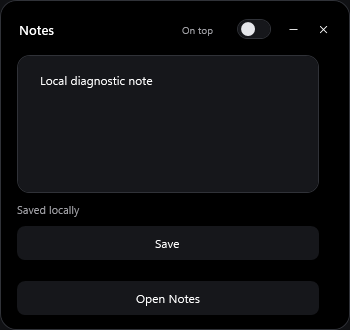
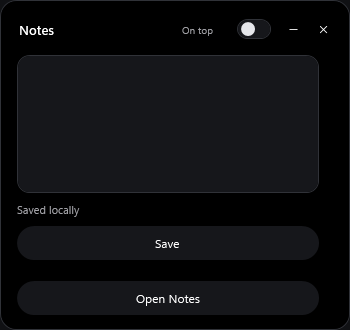
Apply height-aware pill buttons with a previewed shape preference

diff --git a/Theme.xaml b/Theme.xaml
@@ -4,11 +4,14 @@
   <SolidColorBrush x:Key="ControlFill" Color="#16171B"/><SolidColorBrush x:Key="ControlBorder" Color="#303238"/><SolidColorBrush x:Key="SelectionFill" Color="#34373E"/>
   <Style TargetType="MenuItem"><Setter Property="Foreground" Value="{DynamicResource ControlText}"/><Setter Property="Background" Value="Transparent"/><Setter Property="Padding" Value="10,8"/><Setter Property="Template"><Setter.Value><ControlTemplate TargetType="MenuItem"><Border x:Name="MenuFrame" Background="{TemplateBinding Background}" Padding="{TemplateBinding Padding}" CornerRadius="7"><Grid><Grid.ColumnDefinitions><ColumnDefinition Width="18"/><ColumnDefinition Width="*"/></Grid.ColumnDefinitions><Path x:Name="CheckMark" Data="M1,6 L5,10 13,2" Stroke="White" StrokeThickness="1.5" Width="12" Height="10" Stretch="Uniform" Visibility="Hidden"/><ContentPresenter Grid.Column="1" ContentSource="Header" VerticalAlignment="Center"/></Grid></Border><ControlTemplate.Triggers><Trigger Property="IsHighlighted" Value="True"><Setter TargetName="MenuFrame" Property="Background" Value="{DynamicResource SelectionFill}"/></Trigger><Trigger Property="IsChecked" Value="True"><Setter TargetName="CheckMark" Property="Visibility" Value="Visible"/></Trigger><Trigger Property="IsEnabled" Value="False"><Setter Property="Opacity" Value="0.4"/></Trigger></ControlTemplate.Triggers></ControlTemplate></Setter.Value></Setter></Style>
   <Style TargetType="Window"><Setter Property="FontFamily" Value="Segoe UI Variable, Segoe UI"/><Setter Property="FontSize" Value="13"/><Setter Property="Foreground" Value="{DynamicResource ControlText}"/><Setter Property="Background" Value="#000000"/></Style>
+  <local:ButtonCornerRadiusConverter x:Key="ButtonCorners"/>
+  <CornerRadius x:Key="ActionRadius">999</CornerRadius>
   <Style TargetType="Button">
+    <Setter Property="Tag" Value="{DynamicResource ActionRadius}"/>
     <Setter Property="Background" Value="{DynamicResource ControlFill}"/><Setter Property="Foreground" Value="{DynamicResource ControlText}"/><Setter Property="BorderBrush" Value="{DynamicResource ControlBorder}"/><Setter Property="BorderThickness" Value="0"/>
     <Setter Property="Padding" Value="14,9"/><Setter Property="Margin" Value="0,3,6,3"/><Setter Property="Cursor" Value="Hand"/><Setter Property="MinHeight" Value="34"/>
     <Setter Property="Template"><Setter.Value><ControlTemplate TargetType="Button">
-      <Border x:Name="Frame" Background="{TemplateBinding Background}" BorderBrush="{TemplateBinding BorderBrush}" BorderThickness="{TemplateBinding BorderThickness}" CornerRadius="{Binding Tag, RelativeSource={RelativeSource TemplatedParent}, TargetNullValue=16}" Padding="{TemplateBinding Padding}"><ContentPresenter HorizontalAlignment="{TemplateBinding HorizontalContentAlignment}" VerticalAlignment="Center"/></Border>
+      <Border x:Name="Frame" Background="{TemplateBinding Background}" BorderBrush="{TemplateBinding BorderBrush}" BorderThickness="{TemplateBinding BorderThickness}" Padding="{TemplateBinding Padding}"><Border.CornerRadius><MultiBinding Converter="{StaticResource ButtonCorners}"><Binding Path="Tag" RelativeSource="{RelativeSource TemplatedParent}"/><Binding Path="ActualHeight" RelativeSource="{RelativeSource TemplatedParent}"/><Binding Path="ActualWidth" RelativeSource="{RelativeSource TemplatedParent}"/></MultiBinding></Border.CornerRadius><ContentPresenter HorizontalAlignment="{TemplateBinding HorizontalContentAlignment}" VerticalAlignment="Center"/></Border>
       <ControlTemplate.Triggers><Trigger Property="IsMouseOver" Value="True"><Setter TargetName="Frame" Property="BorderBrush" Value="{DynamicResource Accent}"/></Trigger><Trigger Property="IsKeyboardFocused" Value="True"><Setter TargetName="Frame" Property="BorderBrush" Value="{DynamicResource Accent}"/></Trigger><Trigger Property="IsPressed" Value="True"><Setter TargetName="Frame" Property="Opacity" Value="0.82"/></Trigger><Trigger Property="IsEnabled" Value="False"><Setter TargetName="Frame" Property="Opacity" Value="0.4"/></Trigger></ControlTemplate.Triggers>
     </ControlTemplate></Setter.Value></Setter>
   </Style>

diff --git a/SettingsWindow.cs b/SettingsWindow.cs
@@ -29,14 +29,14 @@ public sealed partial class SettingsWindow : Window
         SourceInitialized+=(_,_)=>{Native.DarkTitleBar(this);var screen=Native.ChooseScreen(app.Settings);double scale=Native.Scale(screen);MinWidth=Math.Min(MinWidth,Math.Max(280,screen.WorkingArea.Width/scale-32));MinHeight=Math.Min(MinHeight,Math.Max(260,screen.WorkingArea.Height/scale-32));Width=Math.Min(Width,screen.WorkingArea.Width/scale-32);Height=Math.Min(Height,screen.WorkingArea.Height/scale-32);};
         var root=new Grid();root.RowDefinitions.Add(new(){Height=GridLength.Auto});root.RowDefinitions.Add(new());root.ColumnDefinitions.Add(new(){Width=new GridLength(168)});root.ColumnDefinitions.Add(new());
         var navigation=new WrapPanel{Orientation=Orientation.Vertical,Margin=new(14,26,12,18)};var brand=UI.Text("NabyScape",21);brand.FontWeight=FontWeights.SemiBold;brand.Margin=new(12,0,0,28);navigation.Children.Add(brand);
-        foreach(var name in new[]{"Appearance","Layout","Widgets","Controls","Audio","System","Application"}){var button=UI.Button(name,()=>Navigate(name));button.HorizontalContentAlignment=HorizontalAlignment.Left;button.Padding=new(12,9,12,9);button.Margin=new(0,2,0,2);button.Tag=new CornerRadius(8);button.FontSize=12;navigationButtons[name]=button;navigation.Children.Add(button);}
+        foreach(var name in new[]{"Appearance","Layout","Widgets","Controls","Audio","System","Application"}){var button=UI.Button(name,()=>Navigate(name));button.HorizontalContentAlignment=HorizontalAlignment.Left;button.Padding=new(12,9,12,9);button.Margin=new(0,2,0,2);button.SetResourceReference(TagProperty,"ActionRadius");button.FontSize=12;navigationButtons[name]=button;navigation.Children.Add(button);}
         var navBorder=new Border{Background=UI.Brush("#17181B"),BorderBrush=UI.Brush("#24262B"),BorderThickness=new(0,0,1,0),Child=navigation};root.Children.Add(navBorder);
         var main=new Grid();Grid.SetColumn(main,1);Grid.SetRowSpan(main,2);Grid.SetRowSpan(navBorder,2);root.Children.Add(main);main.RowDefinitions.Add(new(){Height=new GridLength(1,GridUnitType.Star)});main.RowDefinitions.Add(new(){Height=GridLength.Auto});
         var workspace=new Grid();workspace.RowDefinitions.Add(new(){Height=GridLength.Auto});workspace.RowDefinitions.Add(new());workspace.ColumnDefinitions.Add(new());workspace.ColumnDefinitions.Add(new(){Width=new GridLength(300)});main.Children.Add(workspace);
         var scroll=UI.Scroll(page);scroll.Padding=new(0,0,8,0);workspace.Children.Add(scroll);Grid.SetRowSpan(scroll,2);settingsScroll=scroll;
         preview=new Border{HorizontalAlignment=HorizontalAlignment.Center,VerticalAlignment=VerticalAlignment.Top};
         var previewColumn=new StackPanel{Margin=new(20,28,20,20)};var previewTitle=UI.Text("Preview",14);previewTitle.FontWeight=FontWeights.SemiBold;previewColumn.Children.Add(previewTitle);
-        var modes=new Grid{Margin=new(0,14,0,12)};for(int i=0;i<3;i++)modes.ColumnDefinitions.Add(new());int column=0;foreach(string mode in new[]{"Closed","Hover","Panel"}){var button=UI.Button(mode,()=>{previewMode=mode;RefreshPreview();});button.FontSize=10;button.Padding=new(3,7,3,7);button.Margin=new(0,0,4,0);button.Tag=new CornerRadius(7);UI.Named(button,"Preview "+mode);Grid.SetColumn(button,column++);modes.Children.Add(button);previewModeButtons[mode]=button;}previewColumn.Children.Add(modes);
+        var modes=new Grid{Margin=new(0,14,0,12)};for(int i=0;i<3;i++)modes.ColumnDefinitions.Add(new());int column=0;foreach(string mode in new[]{"Closed","Hover","Panel"}){var button=UI.Button(mode,()=>{previewMode=mode;RefreshPreview();});button.FontSize=10;button.Padding=new(3,7,3,7);button.Margin=new(0,0,4,0);button.SetResourceReference(TagProperty,"ActionRadius");UI.Named(button,"Preview "+mode);Grid.SetColumn(button,column++);modes.Children.Add(button);previewModeButtons[mode]=button;}previewColumn.Children.Add(modes);
         previewStage=new Border{Height=238,Background=UI.Brush("#202226"),CornerRadius=new(10),ClipToBounds=true,Child=new System.Windows.Controls.Viewbox{Stretch=Stretch.Uniform,StretchDirection=StretchDirection.DownOnly,Child=preview,VerticalAlignment=VerticalAlignment.Top}};previewColumn.Children.Add(previewStage);
         previewDimensions.Margin=new(0,12,0,18);previewColumn.Children.Add(previewDimensions);var sample=UI.Text("Preview content",11,UI.Muted);sample.Margin=new(0,0,0,7);previewColumn.Children.Add(sample);var examples=new ComboBox();previewExamples=examples;foreach(string item in new[]{"Music","Timer","Focus","Calendar","Note","Shelf","Tools","System","Launch","Navigation","Volume feedback","Drop zone","Detached preview","Cover gestures","Two activities","Activities","Smart clipboard","Control colors","Typography","Panel navigation"})examples.Items.Add(item);examples.SelectedIndex=0;UI.Named(examples,"Preview content");examples.SelectionChanged+=(_,_)=>{previewContent=examples.SelectedItem?.ToString()??"Music";RefreshPreview();};previewColumn.Children.Add(examples);var hint=UI.Text("Changes apply automatically. The preview uses your current shape, size and colors.",11,UI.Muted);hint.Margin=new(0,15,0,0);previewColumn.Children.Add(hint);
         var rail=new Border{BorderBrush=UI.Brush("#24262B"),BorderThickness=new(1,0,0,0),Child=UI.Scroll(previewColumn)};Grid.SetColumn(rail,1);Grid.SetRowSpan(rail,2);workspace.Children.Add(rail);
@@ -153,7 +153,7 @@ public sealed partial class SettingsWindow : Window
             var index=i;var widget=s.Widgets[i];
             var grid=new DockPanel{Margin=new(0,2,0,2)};
             var controls=UI.Row(UI.Button("↑",()=>Move(s.Widgets,index,-1)),UI.Button("↓",()=>Move(s.Widgets,index,1)));
-            for(int k=0;k<controls.Children.Count;k++){var button=(Button)controls.Children[k];var icon=Icons.Create("chevron",10);icon.RenderTransformOrigin=new(.5,.5);icon.RenderTransform=new RotateTransform(k==0?180:0);button.Content=icon;button.Width=28;button.MinHeight=28;button.Padding=new(0);button.Margin=new(4,0,0,0);button.Tag=new CornerRadius(6);}
+            for(int k=0;k<controls.Children.Count;k++){var button=(Button)controls.Children[k];var icon=Icons.Create("chevron",10);icon.RenderTransformOrigin=new(.5,.5);icon.RenderTransform=new RotateTransform(k==0?180:0);button.Content=icon;button.Width=28;button.MinHeight=28;button.Padding=new(0);button.Margin=new(4,0,0,0);button.Tag=new CornerRadius(14);}
             ((Button)controls.Children[0]).IsEnabled=i>0;((Button)controls.Children[1]).IsEnabled=i<s.Widgets.Count-1;
             UI.Named(controls.Children[0],"Move up "+Settings.Names[widget.Id]);UI.Named(controls.Children[1],"Move down "+Settings.Names[widget.Id]);
             DockPanel.SetDock(controls,Dock.Right);grid.Children.Add(controls);grid.Children.Add(Check(Settings.Names[widget.Id],widget.Enabled,v=>widget.Enabled=v));widgets.Children.Add(grid);

diff --git a/PeekCarousel.cs b/PeekCarousel.cs
@@ -56,7 +56,7 @@ public sealed partial class OverlayWindow
         peekTrackPrevious=previous;peekTrackNext=next;peekMute=mute;peekOutput=output;controls.Children.Add(previous);Grid.SetColumn(next,1);controls.Children.Add(next);Grid.SetColumn(mute,2);controls.Children.Add(mute);
         peekVolume=new Slider{Minimum=0,Maximum=100,Height=26,Margin=new(7,0,9,0),VerticalAlignment=VerticalAlignment.Center};UI.Named(peekVolume,"Preview volume");peekVolume.ValueChanged+=(_,_)=>{if(!updating){app.Audio.SetVolume(peekVolume.Value/100);app.Audio.Read();}};Grid.SetColumn(peekVolume,3);controls.Children.Add(peekVolume);Grid.SetColumn(output,4);controls.Children.Add(output);var mixerButton=PeekIcon("mixer","Open mixer from preview",OpenMixer);Grid.SetColumn(mixerButton,5);controls.Children.Add(mixerButton);Grid.SetRow(controls,3);Grid.SetColumnSpan(controls,3);peekMedia.Children.Add(controls);AddPeekView("media",peekMedia);
         AddPeekClock("timer");AddPeekClock("focus");AddPeekView("calendar",BuildPeekCalendar());AddPeekView("notes",BuildPeekNote());AddPeekView("files",BuildPeekShelf());AddPeekView("system",BuildPeekSystem());
-        var footer=new Grid{Margin=new(0,2,0,0)};peekFooter=footer;footer.ColumnDefinitions.Add(new(){Width=new GridLength(50)});footer.ColumnDefinitions.Add(new());footer.ColumnDefinitions.Add(new(){Width=new GridLength(48)});footer.ColumnDefinitions.Add(new(){Width=new GridLength(74)});footer.Children.Add(peekPageName);
+        var footer=new Grid{Margin=new(0)};peekFooter=footer;footer.ColumnDefinitions.Add(new(){Width=new GridLength(50)});footer.ColumnDefinitions.Add(new());footer.ColumnDefinitions.Add(new(){Width=new GridLength(48)});footer.ColumnDefinitions.Add(new(){Width=new GridLength(74)});footer.Children.Add(peekPageName);
         var dots=new StackPanel{Orientation=Orientation.Horizontal,HorizontalAlignment=HorizontalAlignment.Center,VerticalAlignment=VerticalAlignment.Center};peekDotStrip=dots;Grid.SetColumn(dots,1);footer.Children.Add(dots);
         foreach(var id in new[]{"media","timer","focus","calendar","notes","files","system"})
         {
@@ -64,7 +64,7 @@ public sealed partial class OverlayWindow
         }
         var arrows=new StackPanel{Orientation=Orientation.Horizontal,HorizontalAlignment=HorizontalAlignment.Right};peekPrevious=PeekArrow(false,()=>NavigatePeek(-1));peekNext=PeekArrow(true,()=>NavigatePeek(1));arrows.Children.Add(peekPrevious);arrows.Children.Add(peekNext);Grid.SetColumn(arrows,2);footer.Children.Add(arrows);var detachTools=new StackPanel{Orientation=Orientation.Horizontal,HorizontalAlignment=HorizontalAlignment.Right};
         var handle=new Thumb{Width=18,Height=22,Cursor=Cursors.SizeAll,Background=Brushes.Transparent,ToolTip="Drag to detach this preview"};var grip=new FrameworkElementFactory(typeof(Border));grip.SetValue(WidthProperty,12d);grip.SetValue(HeightProperty,3d);grip.SetValue(Border.CornerRadiusProperty,new CornerRadius(1.5));grip.SetValue(Border.BackgroundProperty,UI.Brush("#8B8D94"));handle.Template=new ControlTemplate(typeof(Thumb)){VisualTree=grip};UI.Named(handle,"Drag preview out");Point detachStart=default;bool detached=false;handle.DragStarted+=(_,_)=>{detachStart=Mouse.GetPosition(this);detached=false;};handle.DragDelta+=(_,_)=>{if(!detached && (Mouse.GetPosition(this)-detachStart).Length>10){detached=true;var location=PointToScreen(Mouse.GetPosition(this));var kind=peekId;handle.CancelDrag();Collapse();app.Previews?.OpenAt(kind,location,true);}};detachTools.Children.Add(handle);
-        var detach=PlainPeekButton("Detach preview",()=>{var location=PointToScreen(new Point((ActualWidth-PeekWidth)/2+24,app.Settings.Height+24));var kind=peekId;Collapse();app.Previews?.OpenAt(kind,location,false);});detach.Content="Detach";detach.FontSize=10;detach.Width=52;detachTools.Children.Add(detach);Grid.SetColumn(detachTools,3);footer.Children.Add(detachTools);detachTools.Tag="detach";
+        var detach=UI.Button("Detach preview",()=>{var location=PointToScreen(new Point((ActualWidth-PeekWidth)/2+24,app.Settings.Height+24));var kind=peekId;Collapse();app.Previews?.OpenAt(kind,location,false);});detach.Content="Detach";detach.FontSize=10;detach.Width=52;detach.MinHeight=24;detach.Padding=new(5,3,5,3);detach.Margin=new(0);detachTools.Children.Add(detach);Grid.SetColumn(detachTools,3);footer.Children.Add(detachTools);detachTools.Tag="detach";
         Grid.SetRow(footer,1);peekPanel.Children.Add(footer);visuals.Children.Add(peekPanel);
         peekPanel.Focusable=true;peekPanel.PreviewMouseLeftButtonDown+=(_,e)=>{if(peeking){Activate();if(!PeekGestureBlocked(e.OriginalSource as DependencyObject))peekPanel.Focus();}};
         peekViewport.PreviewTouchDown+=(_,e)=>peekTouchBlocked=PeekGestureBlocked(e.OriginalSource as DependencyObject);

diff --git a/CustomizationProfile.cs b/CustomizationProfile.cs
@@ -10,7 +10,7 @@ internal static class CustomizationProfile
     internal static readonly string[] CustomizationKeys={"Preset","Width","Height","Radius","Top","Horizontal","Monitor","Background","Accent","Opacity","GlassStyle","GlassStrength","AlbumAccent","PanelWidth","PanelMaxHeight","PanelPadding","PanelScale","SectionGap","HoverWidth","HoverHeight","HoverDelayMs","HoverDetailDelayMs","SwipeDistance","HoverViews","Widgets","CompactLayout","HoverPeek","TwoStageHover","AnimationMs","ReduceMotion","LiveActivity","ClosedMediaIcon","ClosedMediaContent","Performance","WheelAction","MiddleAction","VolumeStep","Clock24Hour","ClockSeconds","ShowDate","MonitorNetwork","MonitorStorage","MonitorProcesses","CategoryStyle","LaunchStyle","BoldMediaTitle","BoldHeadings","WaveformIdleMotion","VolumeFeedback","BrightnessFeedback"};
     internal static string Export(Settings settings)
     {
-        var values=CustomizationKeys.Concat(new[]{"DropReveal","DetachablePreviews","CoverGestures","ActivitySatellite","SatelliteSource","ControlFill","ControlBorder","SelectionFill","PanelSwipe"}).ToDictionary(key=>key,key=>typeof(Settings).GetProperty(key)!.GetValue(settings));
+        var values=CustomizationKeys.Concat(new[]{"DropReveal","DetachablePreviews","CoverGestures","ActivitySatellite","SatelliteSource","ControlFill","ControlBorder","SelectionFill","PanelSwipe","ButtonShape"}).ToDictionary(key=>key,key=>typeof(Settings).GetProperty(key)!.GetValue(settings));
         return JsonSerializer.Serialize(new{format="luma.layout.v1",values},new JsonSerializerOptions{WriteIndented=true});
     }
     internal static void Import(string source,Settings target)
@@ -19,7 +19,7 @@ internal static class CustomizationProfile
         using var document=JsonDocument.Parse(source);
         var root=document.RootElement;
         if(root.ValueKind!=JsonValueKind.Object || !root.TryGetProperty("format",out var format) || format.GetString()!="luma.layout.v1" || !root.TryGetProperty("values",out var values) || values.ValueKind!=JsonValueKind.Object)throw new InvalidDataException("Choose a NabyScape layout file.");
-        var allKeys=CustomizationKeys.Concat(new[]{"DropReveal","DetachablePreviews","CoverGestures","ActivitySatellite","SatelliteSource","ControlFill","ControlBorder","SelectionFill","PanelSwipe"}).ToArray();
+        var allKeys=CustomizationKeys.Concat(new[]{"DropReveal","DetachablePreviews","CoverGestures","ActivitySatellite","SatelliteSource","ControlFill","ControlBorder","SelectionFill","PanelSwipe","ButtonShape"}).ToArray();
         var keys=allKeys.Where(key=>values.TryGetProperty(key,out _)).ToArray();if(keys.Length==0)throw new InvalidDataException("The layout has no customization values.");
         var incoming=JsonSerializer.Deserialize<Settings>(values.GetRawText())??throw new InvalidDataException("Layout is empty.");
         var candidate=JsonSerializer.Deserialize<Settings>(JsonSerializer.Serialize(target))!;

diff --git a/RoadmapOverlay.cs b/RoadmapOverlay.cs
@@ -115,7 +115,7 @@ public sealed partial class OverlayWindow
             long ticks=calendarMonth.Ticks+(long)(i-offset)*TimeSpan.TicksPerDay;if(ticks<DateTime.MinValue.Ticks || ticks>DateTime.MaxValue.Ticks)continue;
             DateTime day=new(ticks);var button=UI.Button(day.Day.ToString(),()=>{calendarDay=day;calendarMonth=new(day.Year,day.Month,1);calendarMonthExpanded=false;RefreshTools();});button.FontSize=10;button.MinHeight=0;button.Padding=new(0);button.Margin=new(1);button.Tag=new CornerRadius(7);button.Foreground=day==calendarDay?Brushes.Black:day.Month==calendarMonth.Month?Brushes.White:UI.Muted;button.Background=day==calendarDay?Brushes.White:DayEvents(day).Any()?UI.Brush("#2BFFFFFF"):Brushes.Transparent;UI.Named(button,day.ToString("dddd, MMMM d, yyyy"));Grid.SetColumn(button,i%7);Grid.SetRow(button,1+i/7);grid.Children.Add(button);
         }
-        var dayRow=new DockPanel{Margin=new(0,14,0,12)};var today=UI.Button("Today",()=>{calendarDay=DateTime.Today;calendarMonth=new(calendarDay.Year,calendarDay.Month,1);RefreshTools();});today.Template=(ControlTemplate)FindResource("ToolRowTemplate");today.FontSize=11;today.MinHeight=27;today.Padding=new(8,3,8,3);today.Margin=new(4,0,0,0);DockPanel.SetDock(today,Dock.Right);dayRow.Children.Add(today);var add=UI.Button("Add event",()=>{calendarEditing=true;RefreshTools();});UI.Named(add,"Add local event");add.FontSize=11;add.Tag=new CornerRadius(7);add.MinHeight=27;add.Padding=new(8,3,8,3);add.Margin=new(4,0,0,0);DockPanel.SetDock(add,Dock.Right);dayRow.Children.Add(add);dayRow.Children.Add(UI.Text(calendarDay.ToString("ddd, MMM d"),12,UI.Muted));panel.Children.Add(dayRow);panel.Children.Add(grid);
+        var dayRow=new DockPanel{Margin=new(0,14,0,12)};var today=UI.Button("Today",()=>{calendarDay=DateTime.Today;calendarMonth=new(calendarDay.Year,calendarDay.Month,1);RefreshTools();});today.Template=(ControlTemplate)FindResource("ToolRowTemplate");today.FontSize=11;today.MinHeight=27;today.Padding=new(8,3,8,3);today.Margin=new(4,0,0,0);DockPanel.SetDock(today,Dock.Right);dayRow.Children.Add(today);var add=UI.Button("Add event",()=>{calendarEditing=true;RefreshTools();});UI.Named(add,"Add local event");add.FontSize=11;add.SetResourceReference(TagProperty,"ActionRadius");add.MinHeight=27;add.Padding=new(8,3,8,3);add.Margin=new(4,0,0,0);DockPanel.SetDock(add,Dock.Right);dayRow.Children.Add(add);dayRow.Children.Add(UI.Text(calendarDay.ToString("ddd, MMM d"),12,UI.Muted));panel.Children.Add(dayRow);panel.Children.Add(grid);
         var events=DayEvents(calendarDay).ToArray();if(events.Length==0)panel.Children.Add(UI.Text("No events for this day.",12,UI.Muted));
         foreach(var item in events)
         {

diff --git a/SettingsUxTests.cs b/SettingsUxTests.cs
@@ -51,10 +51,16 @@ internal static class SettingsUxTests
             var s=new Settings{ClosedMediaContent="invalid",ClosedMediaIcon="invalid",CategoryStyle="invalid",LaunchStyle="Icons",VisibilityHotkeyKey="?",VisibilityHotkeyModifiers="bad",RecentColors=new(){"bad","#182028","#182028"},BoldMediaTitle=false,BoldHeadings=true};s.Normalize();
             Assert(s.ClosedMediaContent=="Title" && s.ClosedMediaIcon=="Waveform" && s.CategoryStyle=="IconsLabels" && s.LaunchStyle=="Icons" && s.VisibilityHotkeyKey=="H" && s.VisibilityHotkeyModifiers=="Ctrl+Alt" && s.RecentColors.Count==1 && !s.BoldMediaTitle && s.BoldHeadings && !s.HideMaximized);
         });
+        test("Pill radius follows the shortest side instead of stretching to an ellipse",()=>
+        {
+            var converter=new ButtonCornerRadiusConverter();var culture=System.Globalization.CultureInfo.InvariantCulture;
+            Assert((System.Windows.CornerRadius)converter.Convert(new object[]{new System.Windows.CornerRadius(999),34d,310d},typeof(System.Windows.CornerRadius),null!,culture)==new System.Windows.CornerRadius(17));
+            Assert((System.Windows.CornerRadius)converter.Convert(new object[]{new System.Windows.CornerRadius(10),34d,310d},typeof(System.Windows.CornerRadius),null!,culture)==new System.Windows.CornerRadius(10));
+        });
         test("Control colors validate and profile preferences preserve navigation",()=>
         {
             var s=new Settings{ControlFill="bad",ControlBorder="bad",SelectionFill="bad"};s.Normalize();Assert(s.ControlFill=="#16171B" && s.ControlBorder=="#303238" && s.SelectionFill=="#34373E");
-            s.ControlFill="#151922";s.ControlBorder="#414958";s.SelectionFill="#283B54";s.PanelSwipe=false;var target=new Settings();CustomizationProfile.Import(CustomizationProfile.Export(s),target);Assert(target.ControlFill==s.ControlFill && target.ControlBorder==s.ControlBorder && target.SelectionFill==s.SelectionFill && !target.PanelSwipe);
+            s.ControlFill="#151922";s.ControlBorder="#414958";s.SelectionFill="#283B54";s.PanelSwipe=false;s.ButtonShape="Soft";var target=new Settings();CustomizationProfile.Import(CustomizationProfile.Export(s),target);Assert(target.ControlFill==s.ControlFill && target.ControlBorder==s.ControlBorder && target.SelectionFill==s.SelectionFill && !target.PanelSwipe && target.ButtonShape=="Soft");
         });
         test("Control contrast follows light and dark custom surfaces",()=>
         {Assert(((SolidColorBrush)UI.ContrastText("#FFFFFF")).Color==Color.FromRgb(17,19,23) && ((SolidColorBrush)UI.ContrastText("#101114")).Color==Colors.White);});

diff --git a/SmartClipboardOverlay.cs b/SmartClipboardOverlay.cs
@@ -47,7 +47,7 @@ public sealed partial class OverlayWindow
             var timestamp=item.Timestamp.ToLocalTime().ToString(item.Timestamp.ToLocalTime().Date==DateTime.Today?"HH:mm":"MMM d · HH:mm");
             var summary=classified.Kind switch{SmartClipKind.Image=>dimensions??"Preview unavailable",SmartClipKind.Link=>"Link",SmartClipKind.Color=>classified.Hex,_=>"Text"};
             var subline=UI.Text((item.Pinned?"Pinned · ":"")+summary+" · "+timestamp,10,selectedClipId==item.Id?UI.ContrastText(app.Settings.SelectionFill):UI.Muted);subline.TextWrapping=TextWrapping.NoWrap;subline.TextTrimming=TextTrimming.CharacterEllipsis;subline.Margin=new(0,3,0,0);labels.Children.Add(subline);Grid.SetColumn(labels,1);grid.Children.Add(labels);
-            var row=UI.Button("View "+classified.Kind,()=>{selectedClipId=selectedClipId==item.Id?null:item.Id;RefreshTools();ResizeToolPanel();Dispatcher.BeginInvoke(()=>toolsContent.Children.OfType<StackPanel>().FirstOrDefault(part=>part.Tag as string=="clip-detail")?.BringIntoView());});row.Content=grid;row.HorizontalContentAlignment=HorizontalAlignment.Stretch;row.MinHeight=56;row.Padding=new(7,6,7,6);row.Margin=new(0,2,0,0);if(selectedClipId==item.Id)row.SetResourceReference(Control.BackgroundProperty,"SelectionFill");else row.Background=Brushes.Transparent;if(selectedClipId==item.Id)row.SetResourceReference(Control.BorderBrushProperty,"ControlBorder");else row.BorderBrush=Brushes.Transparent;row.BorderThickness=new(1);panel.Children.Add(row);
+            var row=UI.Button("View "+classified.Kind,()=>{selectedClipId=selectedClipId==item.Id?null:item.Id;RefreshTools();ResizeToolPanel();Dispatcher.BeginInvoke(()=>toolsContent.Children.OfType<StackPanel>().FirstOrDefault(part=>part.Tag as string=="clip-detail")?.BringIntoView());});row.Tag=new CornerRadius(10);row.Content=grid;row.HorizontalContentAlignment=HorizontalAlignment.Stretch;row.MinHeight=56;row.Padding=new(7,6,7,6);row.Margin=new(0,2,0,0);if(selectedClipId==item.Id)row.SetResourceReference(Control.BackgroundProperty,"SelectionFill");else row.Background=Brushes.Transparent;if(selectedClipId==item.Id)row.SetResourceReference(Control.BorderBrushProperty,"ControlBorder");else row.BorderBrush=Brushes.Transparent;row.BorderThickness=new(1);panel.Children.Add(row);
         }
         if(clips.Length==0){var empty=UI.Text("Your next copied item will appear here.",12,UI.Muted);empty.Margin=new(0,12,0,0);panel.Children.Add(empty);return;}
         var selected=clips.FirstOrDefault(c=>c.Id==selectedClipId);if(selected==null)return;

diff --git a/SettingsCustomization.cs b/SettingsCustomization.cs
@@ -64,7 +64,7 @@ public sealed partial class SettingsWindow
             var show=UI.Button(title,()=>{previewMode="Hover";previewContent=title;RefreshPreview();});show.Background=Brushes.Transparent;show.HorizontalContentAlignment=HorizontalAlignment.Left;show.Padding=new(4,6,4,6);show.Margin=new(0);show.MinHeight=32;show.FontSize=12;show.ToolTip="Preview "+title;Grid.SetColumn(show,1);row.Children.Add(show);
             var enabled=new CheckBox{IsChecked=item.Enabled,VerticalAlignment=VerticalAlignment.Center,MinHeight=32,Height=32,Margin=new(0,0,10,0)};UI.Named(enabled,"Show "+title+" in hover previews");enabled.ToolTip="Show "+title;enabled.Click+=(_,_)=>{item.Enabled=enabled.IsChecked==true;Save();};Grid.SetColumn(enabled,2);row.Children.Add(enabled);
             var controls=UI.Row(UI.Button("Move up "+title,()=>Move(s.HoverViews,index,-1)),UI.Button("Move down "+title,()=>Move(s.HoverViews,index,1)));controls.VerticalAlignment=VerticalAlignment.Center;
-            for(int k=0;k<2;k++){var button=(Button)controls.Children[k];var icon=Icons.Create("chevron",10);icon.RenderTransformOrigin=new(.5,.5);icon.RenderTransform=new RotateTransform(k==0?180:0);button.Content=icon;button.Width=28;button.MinHeight=28;button.Padding=new(0);button.Margin=new(2,0,0,0);button.Tag=new CornerRadius(7);button.ToolTip=k==0?"Earlier in the swipe order":"Later in the swipe order";}
+            for(int k=0;k<2;k++){var button=(Button)controls.Children[k];var icon=Icons.Create("chevron",10);icon.RenderTransformOrigin=new(.5,.5);icon.RenderTransform=new RotateTransform(k==0?180:0);button.Content=icon;button.Width=28;button.MinHeight=28;button.Padding=new(0);button.Margin=new(2,0,0,0);button.Tag=new CornerRadius(14);button.ToolTip=k==0?"Earlier in the swipe order":"Later in the swipe order";}
             ((Button)controls.Children[0]).IsEnabled=i>0;((Button)controls.Children[1]).IsEnabled=i<s.HoverViews.Count-1;Grid.SetColumn(controls,3);row.Children.Add(controls);views.Children.Add(row);
         }
         page.Children.Add(Section("Hover pages",UI.Text("Scroll through these pages in this order. Click a name to preview it; use the arrows to reorder. Switch off pages you do not need.",11,UI.Muted),views));

diff --git a/UI.cs b/UI.cs
@@ -12,7 +12,7 @@ internal static class UI
     public static Brush ContrastText(string color)
     {var c=Brush(color).Color;return c.R*.2126+c.G*.7152+c.B*.0722>150?Brush("#111317"):Brushes.White;}
     public static void ApplyControlTheme(Settings settings)
-    {if(Application.Current==null)return;foreach(var entry in new[]{("ControlFill",settings.ControlFill),("ControlBorder",settings.ControlBorder),("SelectionFill",settings.SelectionFill)})Application.Current.Resources[entry.Item1]=Brush(entry.Item2);Application.Current.Resources["ControlText"]=ContrastText(settings.ControlFill);Application.Current.Resources["SelectionText"]=ContrastText(settings.SelectionFill); }
+    {if(Application.Current==null)return;foreach(var entry in new[]{("ControlFill",settings.ControlFill),("ControlBorder",settings.ControlBorder),("SelectionFill",settings.SelectionFill)})Application.Current.Resources[entry.Item1]=Brush(entry.Item2);Application.Current.Resources["ActionRadius"]=new CornerRadius(settings.ButtonShape=="Pill"?999:10);Application.Current.Resources["ControlText"]=ContrastText(settings.ControlFill);Application.Current.Resources["SelectionText"]=ContrastText(settings.SelectionFill); }
     public static readonly Brush Muted=Brush("#A1A1A6");
     public static TextBlock Text(string text,double size=13,Brush? color=null)
         =>new(){Text=text,FontSize=size,Foreground=color ?? Brushes.White,VerticalAlignment=VerticalAlignment.Center,TextWrapping=TextWrapping.Wrap};
@@ -24,7 +24,7 @@ internal static class UI
     {var heading=Heading(text,11,Muted);heading.FontWeight=FontWeights.Medium;heading.Margin=new(0,0,0,10);return heading;}
     public static Button Button(string text,Action action,bool primary=false)
     {
-        var b=new Button{Content=text,Tag=new CornerRadius(8)};AutomationProperties.SetName(b,text);
+        var b=new Button{Content=text};AutomationProperties.SetName(b,text);
         if(primary) { b.SetResourceReference(Control.BackgroundProperty,"Accent");b.Foreground=Brushes.Black;b.BorderThickness=new(0); }
         Motion.Button(b);b.Click+=(_,_)=>action();return b;
     }

diff --git a/SettingsControlAppearance.cs b/SettingsControlAppearance.cs
@@ -8,6 +8,9 @@ public sealed partial class SettingsWindow
     private void ControlColorSettings()
     {
         var s=app.Settings;var colors=new StackPanel();
+        var shape=new ComboBox();shape.Items.Add("Pill");shape.Items.Add("Soft corners");shape.SelectedIndex=s.ButtonShape=="Soft"?1:0;UI.Named(shape,"Action button shape");
+        shape.SelectionChanged+=(_,_)=>{s.ButtonShape=shape.SelectedIndex==1?"Soft":"Pill";UI.ApplyControlTheme(s);previewMode="Panel";previewContent="Control colors";Save();};
+        page.Children.Add(Section("Action buttons",UI.Text("Shape",12,UI.Muted),shape,UI.Text("Pill gives action buttons and chips rounded ends. Soft corners uses a quieter rectangle. Icon controls stay circular. The adjacent preview uses the same button style.",11,UI.Muted)));
         void Changed(Action action){action();previewMode="Panel";previewContent="Control colors";}
         ColorControl(colors,"Control background",s.ControlFill,v=>Changed(()=>s.ControlFill=v),new[]{"#16171B","#101010","#15202A","#211E1B"});
         ColorControl(colors,"Control outlines",s.ControlBorder,v=>Changed(()=>s.ControlBorder=v),new[]{"#303238","#202125","#4B5664","#645C50"});

diff --git a/LauncherPresentation.cs b/LauncherPresentation.cs
@@ -34,7 +34,7 @@ public sealed partial class OverlayWindow
     private void StyleCategory(Button button,string page,bool selected=false)
     {
         bool iconsOnly=app.Settings.CategoryStyle=="Icons";
-        button.MinWidth=iconsOnly?32:0;button.MinHeight=iconsOnly?32:30;button.Padding=iconsOnly?new Thickness(8):new Thickness(5,5,5,5);button.Tag=new CornerRadius(iconsOnly?10:15);
+        button.MinWidth=iconsOnly?32:0;button.MinHeight=iconsOnly?32:30;button.Padding=iconsOnly?new Thickness(8):new Thickness(5,5,5,5);button.Tag=new CornerRadius(iconsOnly?16:999);
         bool combined=LauncherPresentation.ShowIcon(app.Settings.CategoryStyle) && LauncherPresentation.ShowLabel(app.Settings.CategoryStyle);
         var row=new StackPanel{Orientation=combined?Orientation.Vertical:Orientation.Horizontal,HorizontalAlignment=HorizontalAlignment.Center};
         if(LauncherPresentation.ShowIcon(app.Settings.CategoryStyle)){var icon=Icons.Create(LauncherPresentation.CategoryIcon(page),iconsOnly?16:15,selected?UI.ContrastText(app.Settings.SelectionFill):UI.Muted);icon.Margin=combined?new Thickness(0,0,0,3):new Thickness(0);row.Children.Add(icon);}

diff --git a/ButtonCorners.cs b/ButtonCorners.cs
@@ -1,0 +1,17 @@
+using System;
+using System.Globalization;
+using System.Windows;
+using System.Windows.Data;
+namespace NabyScape;
+internal sealed class ButtonCornerRadiusConverter : IMultiValueConverter
+{
+    public object Convert(object[] values,Type targetType,object parameter,CultureInfo culture)
+    {
+        var radius=values.Length>0 && values[0] is CornerRadius r?r:new CornerRadius(10);
+        double height=values.Length>1 && values[1] is double h && h>0?h:34;
+        double width=values.Length>2 && values[2] is double w && w>0?w:height;
+        double limit=Math.Min(width,height)/2;
+        return new CornerRadius(Math.Min(radius.TopLeft,limit),Math.Min(radius.TopRight,limit),Math.Min(radius.BottomRight,limit),Math.Min(radius.BottomLeft,limit));
+    }
+    public object[] ConvertBack(object value,Type[] targetTypes,object parameter,CultureInfo culture)=>throw new NotSupportedException();
+}
